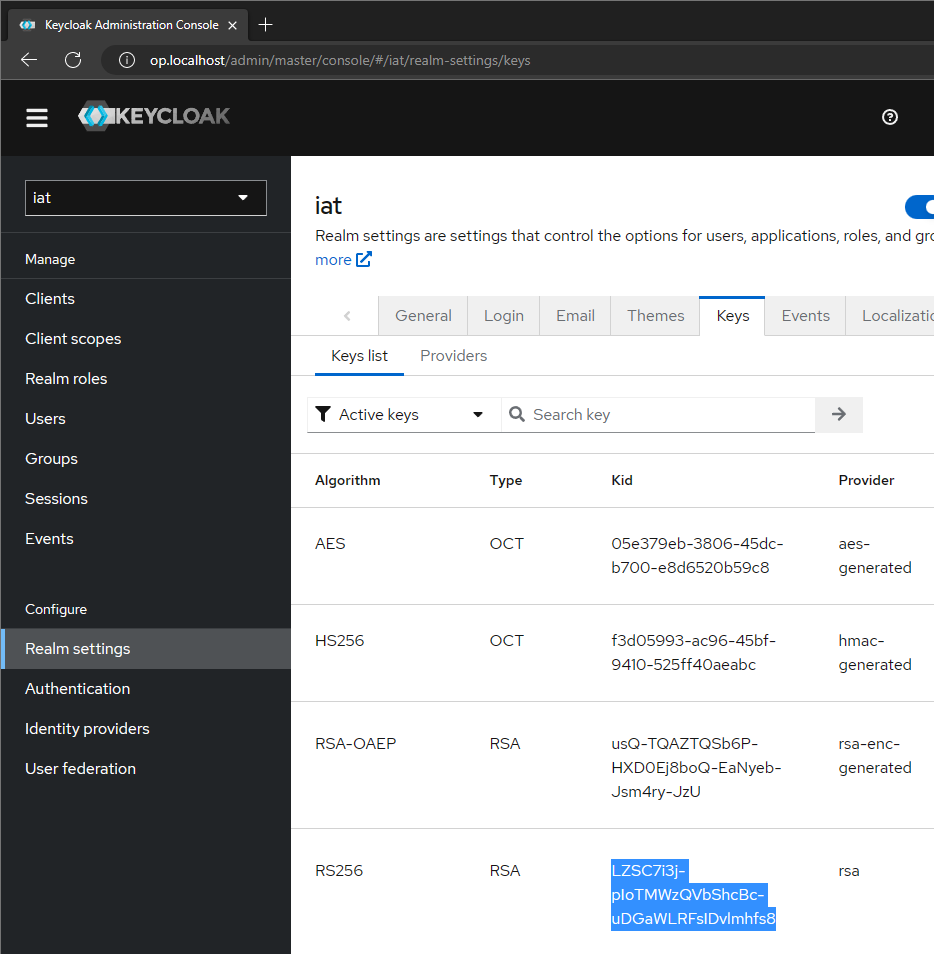
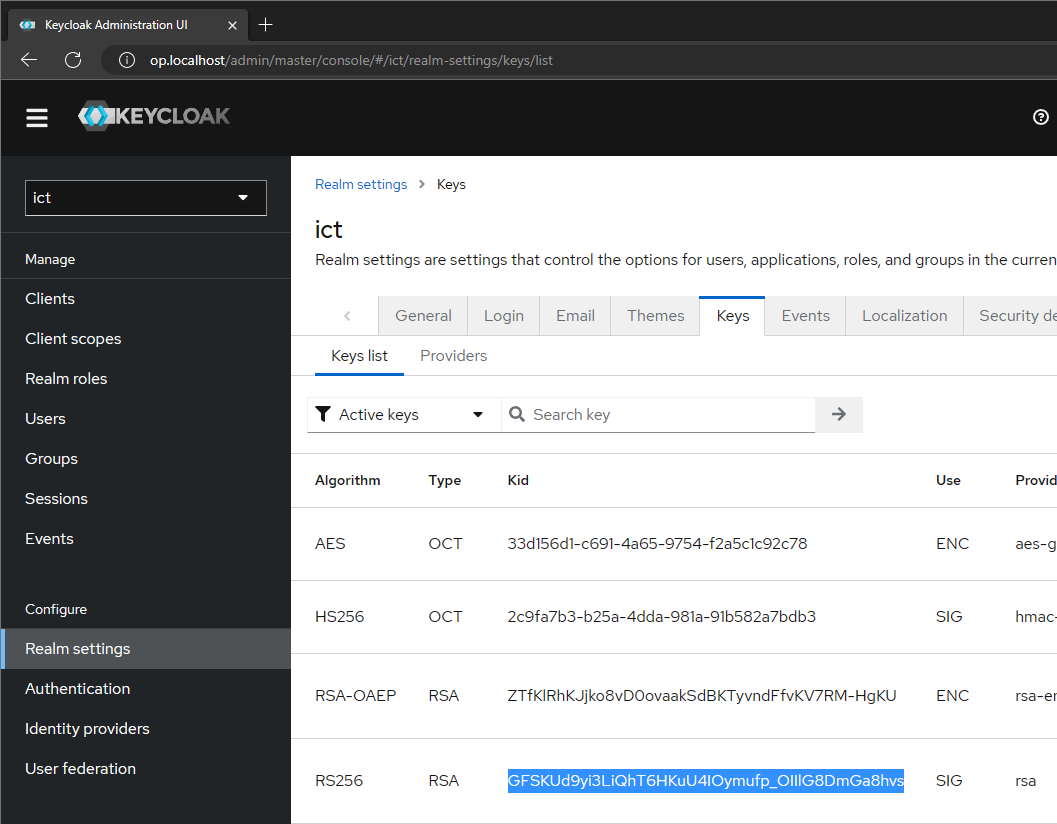
update docs

diff --git a/docs-dev/environment-setup.md b/docs-dev/environment-setup.md
@@ -69,9 +69,9 @@ Then *sign in* with the credentials generated in the following files:
 
 ### 5.2. Switch to Realm
 
-On the top left, click the dropdown menu and select the realm `iat`:
+On the top left, click the dropdown menu and select the realm `ict`:
 
-![Screenshot of how to switch to realm 'iat'](./images/switch_realm.png)
+![Screenshot of how to switch to realm 'ict'](./images/switch_realm.png)
 
 
 ### 5.3. Import Private Key
@@ -91,15 +91,15 @@ Import the generated private key as follows:
 
 ### 5.4. Configure Private Key
 
- 1. Go to the file `/.secrets/iat.env`.
- 2. Copy the *Kid* of your newly generated key of *Type* `RSA` from *Configure* > *Realm settings* > *Keys* > *Key list*.
+ 1. Go to the file `/.secrets/ict.env`.
+ 2. Copy the *Kid* of your newly generated key of *Type* `rsa` from *Configure* > *Realm settings* > *Keys* > *Key list*.
 
     ![Screenshot of the Kid of the RSA key](./images/rsa_kid.png)
 
- 3. Paste the copied *Kid* parameter to the `/.secrets/iat.env` file as value for the key `KID`, e.g.:
+ 3. Paste the copied *Kid* parameter to the `/.secrets/ict.env` file as value for the key `KID`, e.g.:
 
 ```bash
-KID=LZSC7i3j-pIoTMWzQVbShcBc-uDGaWLRFsIDvlmhfs8
+KID=GFSKUd9yi3LiQhT6HKuU4IOymufp_OIIlG8DmGa8hvs
 ```
 
 
@@ -141,8 +141,8 @@ This step depends on your intention why you run this deployment.
 *Do this step only if you want to run this deployment for **testing** purposes!*
 
 1. Go to `/docker-compose.yaml`.
-2. Uncomment line 61 (`image` attribute in service `iat`).
-3. Comment line 64 to 66 (`build` attribute in service `iat`).
+2. Uncomment line 81 (`image` attribute in service `ict`).
+3. Comment line 84 to 86 (`build` attribute in service `ict`).
 
 
 ### 6.2. Development Deployment
@@ -150,8 +150,8 @@ This step depends on your intention why you run this deployment.
 *Do this step only if you want to run this deployment for **development** purposes!*
 
 1. Go to `/docker-compose.yaml`.
-2. Make sure that line 61 (`image` attribute in service `iat`) is commented out.
-3. Make sure that line 64 to 66 (`build` attribute in service `iat`) are not commented.
+2. Comment line 81 (`image` attribute in service `ict`).
+3. Uncomment line 84 to 86 (`build` attribute in service `ict`).
 
 
 ## 7. Restart Infrastructure
